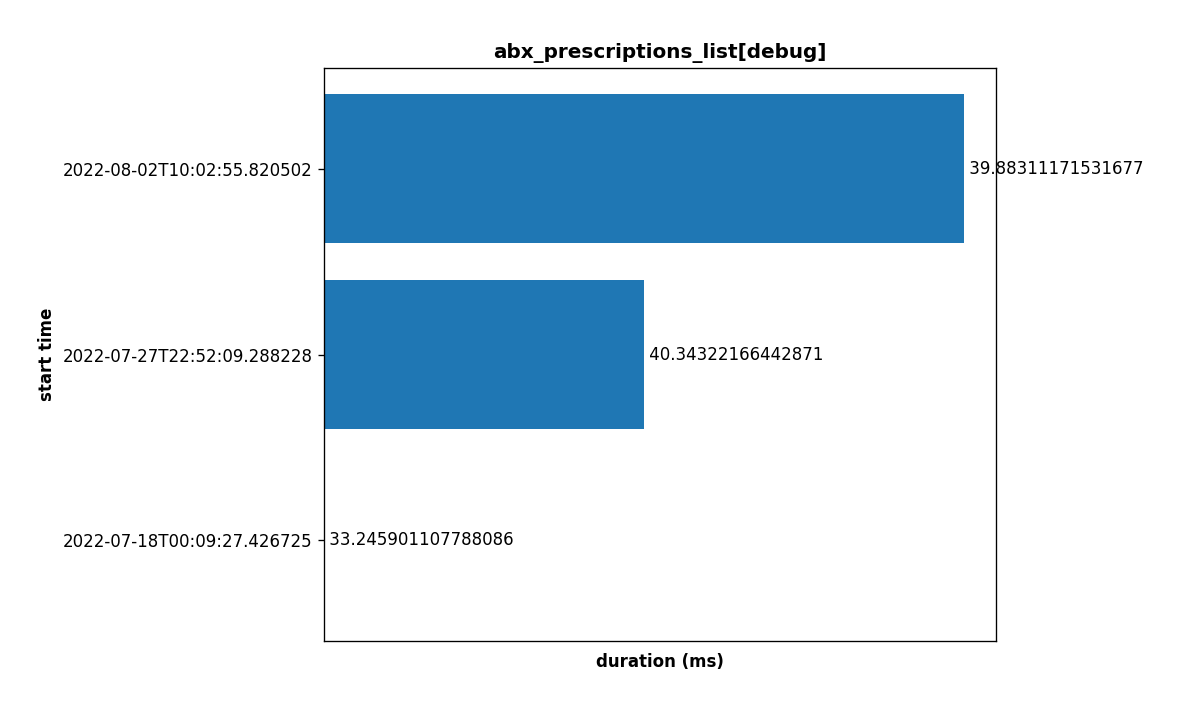
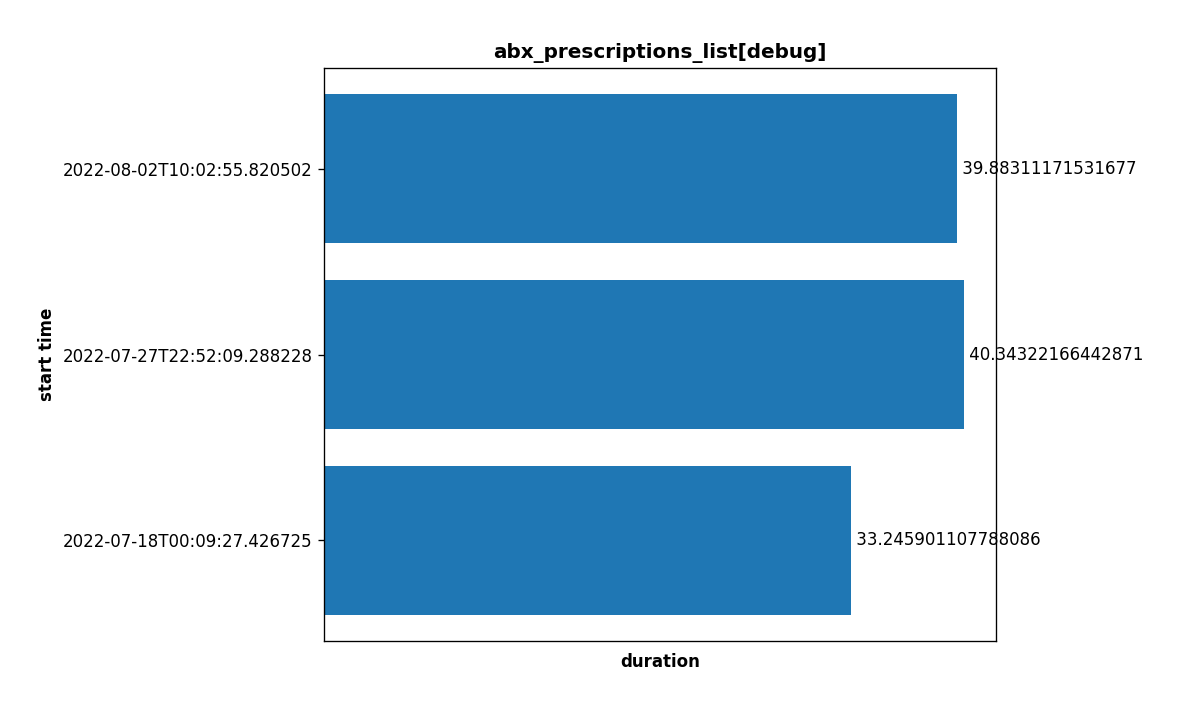
fix bar chart problem

diff --git a/tables-main/templates/query_log.html b/tables-main/templates/query_log.html
@@ -60,8 +60,18 @@
           {orderable: false, searchable: false}
         ],
       });
-    });
 
+<!--   find longest 3 queries   -->
+<!--      $("#data td:nth-child(2)").each(function () {-->
+<!--        if (parseInt($(this).text(), 10) < 100) {-->
+<!--            $(this).parent("tr").css("background-color", "red");-->
+<!--        }-->
+<!--      });-->
+<!--    });-->
+
+    $('#pagination').on('click', function () {
+      alert('page!');
+    })
 
     $('#data tbody').on('click', 'button', function () {
       var nodeName = $(this)[0].childNodes[0].parentNode.parentElement.parentNode.childNodes[1].childNodes[0].data;

diff --git a/tables-main/generate_json_report.py b/tables-main/generate_json_report.py
@@ -3,11 +3,9 @@ import csv
 import os
 
 
-node_name_index = 9
-level_index = 2
+node_name_index = 0
 execution_time_index = 1
-start_time_index = 11
-finish_time_index = 8
+start_time_index = 2
 log_report_name = "log_report3.json"
 
 # json file format:
@@ -15,9 +13,6 @@ log_report_name = "log_report3.json"
 
 
 def generate_or_update_json(log_filename):
-    # log_dict = {}
-    # json_file.write(log_json)
-
     with open(log_filename, mode='r') as f:
         reader = csv.reader(f)
         next(reader)
@@ -29,24 +24,23 @@ def generate_or_update_json(log_filename):
                     execution_time = 0
 
                 if execution_time > 0:
-                    new_id = row[node_name_index] + '[' + row[level_index] + ']'
+                    node_name = row[node_name_index]
                     start_time = row[start_time_index]
                     duration = row[execution_time_index]
                     if os.stat(log_report_name).st_size > 0:
                         json_dict = json.load(res_f)
-                        if new_id not in json_dict.keys():
-                            json_dict[new_id] = {start_time: duration}
+                        if node_name not in json_dict.keys():
+                            json_dict[node_name] = {start_time: duration}
                         else:
-                            json_dict[new_id][start_time] = duration
+                            json_dict[node_name][start_time] = duration
+
                     # when the log json is empty, it cannot be loaded as json file
                     else:
-                        json_dict = {new_id: {start_time: duration}}
+                        json_dict = {node_name: {start_time: duration}}
 
                     res_f.seek(0)
                     res_f.write(json.dumps(json_dict))
                     res_f.truncate()
-            # res_f.close()
-    # log_json = json.dumps(log_dict, sort_keys=True)
 
 
 if __name__ == '__main__':
@@ -59,29 +53,3 @@ if __name__ == '__main__':
         print(log_file_name)
         log_file_name = path + '/' + log_file_name
         generate_or_update_json(log_file_name)
-
-
-# def json_test():
-#     with open('log_report.json', mode='r+') as f:
-#         json_dict = json.load(f)
-#         json_dict["vitals_first_day[debug]"]["new_time"] = "new_duration"
-#         f.seek(0)
-#         f.write(json.dumps(json_dict))
-#         f.truncate()
-#
-#
-# def json_test2():
-#     with open('log_report2.json', mode='r+') as f:
-#         json_dict = json.load(f)
-#         print(type(json_dict))
-#         if "rrt_first_day[debug]" in json_dict.keys():
-#             print("in")
-#         else:
-#             print("not in")
-
-
-# generate_or_update_json()
-# json_test()
-# json_test2()
-
-

diff --git a/parse/parse_txt.py b/parse/parse_txt.py
@@ -1,12 +1,19 @@
 import json
 import csv
 import re
-import math
-import matplotlib.pyplot as plt
 
+'''
+json log format: https://docs.getdbt.com/reference/events-logging#structured-logging
+command: dbt --log-format json run
 
-# json log format: https://docs.getdbt.com/reference/events-logging#structured-logging
-# command: dbt --log-format json run
+process:
+ 1. dbt.log -> [parse_txt.py] -> this_dbt_log.csv
+    dbt.log -> [parse_txt.py] -> all_dbt_log.csv
+ 2. this_dbt_log.csv -> [generate_json_report.py] -> log_report.json
+    log_report.json -> [basic_table.py] -> Flask front-end
+ 3. (click button to show history duration figure)
+    this_dbt_log.csv -> [[basic_table.py]] -> bar chart
+'''
 
 
 def find_node(line):
@@ -102,7 +109,7 @@ def process_this_log():
         
         all_log = f.readlines()
         start_index = [x for x in range(len(all_log)) if begin_flag in all_log[x]]
-        this_lines = all_log[start_index:]
+        this_lines = all_log[start_index[-1]:]
 
         for jsonStr in this_lines:
             json_data = json.loads(jsonStr)

diff --git a/tables-main/basic_table.py b/tables-main/basic_table.py
@@ -15,16 +15,18 @@ def draw_bar_from_json(json_file, model_name):
         duration = []
         for st in sorted(json_dict[model_name].keys()):
             start_time.append(st)
-            duration.append(json_dict[model_name][st])
-        print("start time: " + str(start_time))
-        print("duration: " + str(duration))
+            duration.append(float(json_dict[model_name][st]))
+
         plt.figure(figsize=(10, 6), dpi=120)
         plt.barh(start_time, duration)
         plt.title(model_name, fontweight='bold')
         plt.ylabel('start time', fontweight='bold')
         plt.xlabel('duration', fontweight='bold')
+        # plt.grid(color='#95a5a6', linestyle='--', linewidth=2, axis='y', alpha=0.7)
+
         for i, v in enumerate(duration):
             plt.text(v, i, " "+str(v), va='center')
+
         fig_name = 'static/' + model_name + '.png'
         plt.xticks([])
         plt.subplots_adjust(top=0.905, bottom=0.11, left=0.27, right=0.830, hspace=0.2, wspace=0.2)
